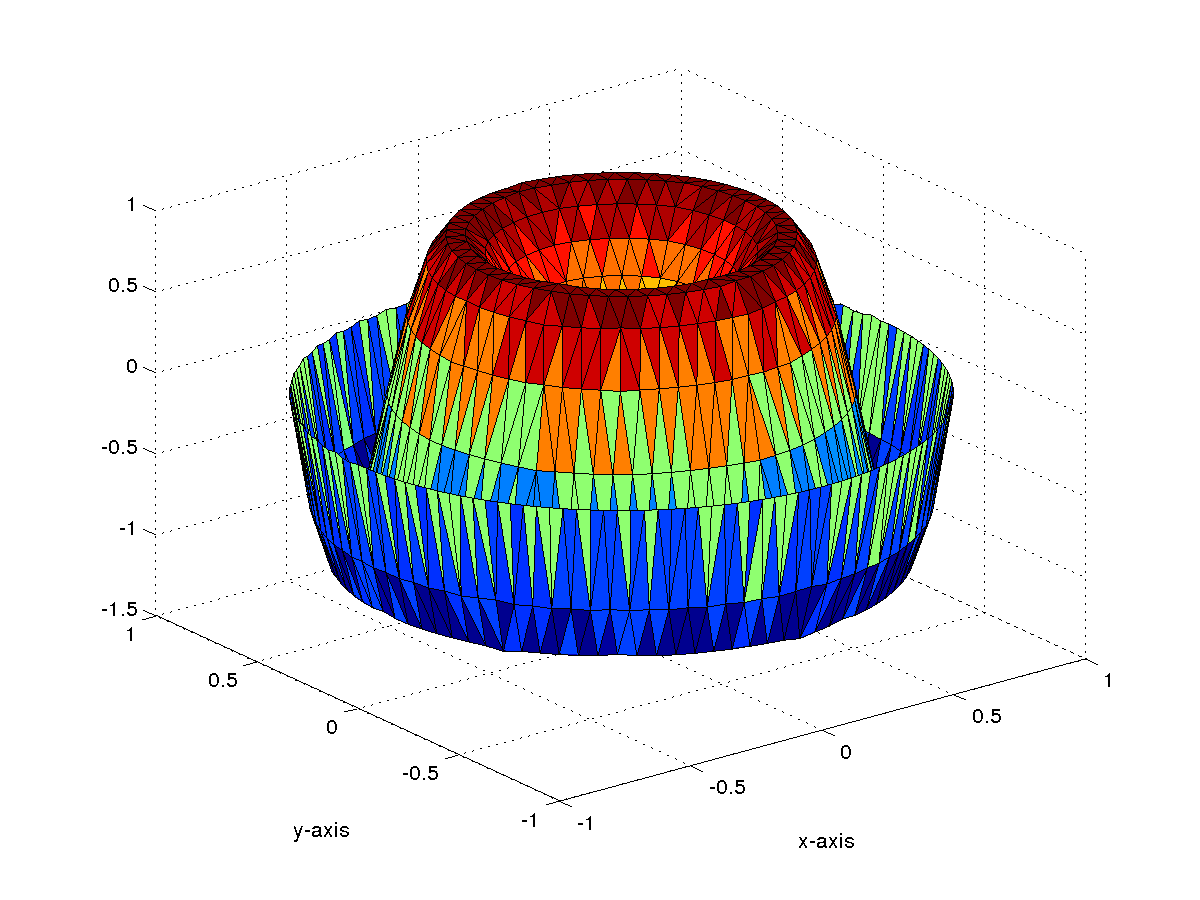
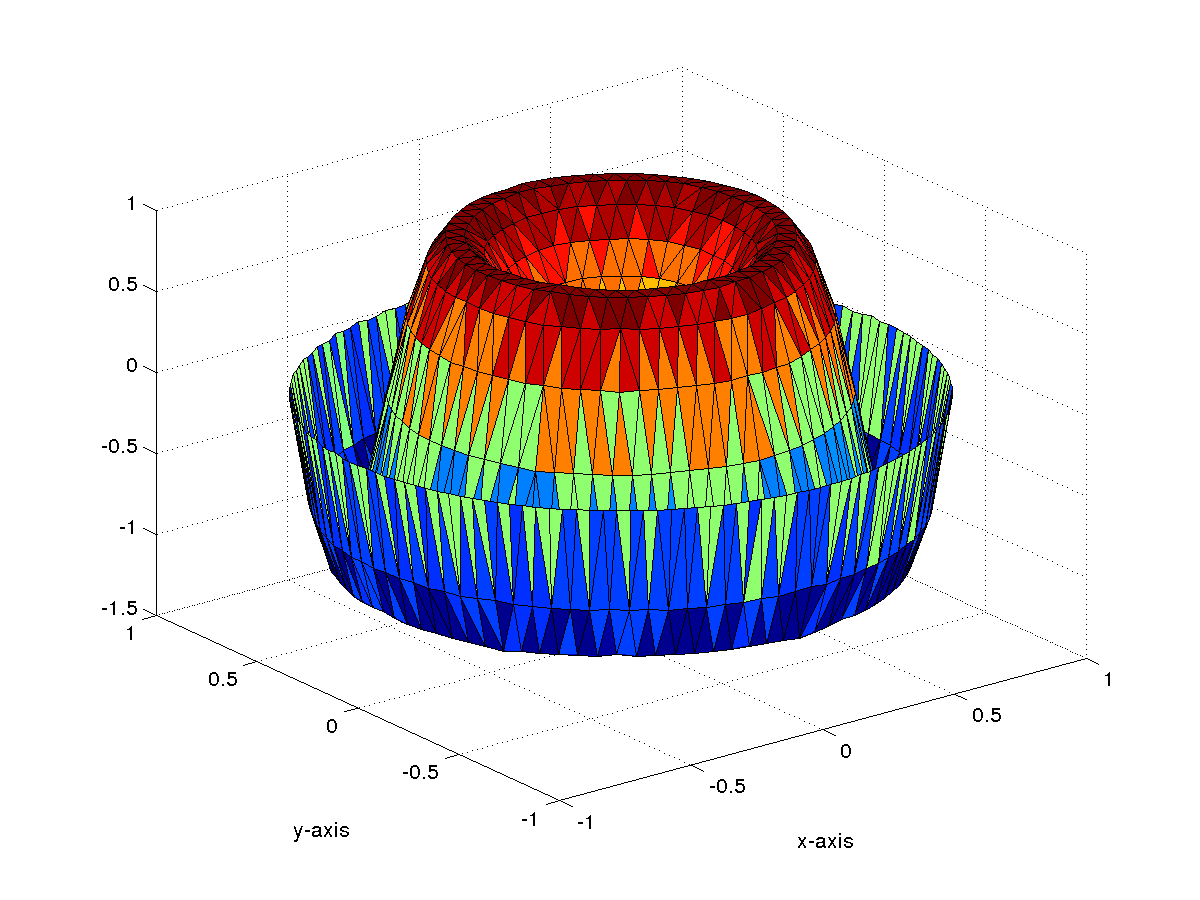
Nor jævla rot

diff --git a/oppgave3d.m b/oppgave3d.m
@@ -11,7 +11,7 @@ f = @(x) -8*pi*cos(2*pi*sum(x.^2))+16*pi^2*sum(x.^2)*sin(2*pi*sum(x.^2));
 g = @(x) 4*pi*sqrt(sum(x.^2))*cos(2*pi*sum(x.^2));
 
 %Generating grid:
-N = 1000;    %Number of nodes
+N = 5000;    %Number of nodes
 [p tri edge] = getDisk(N);
 
 %Assembly of stiffness matrix:
@@ -39,7 +39,7 @@ u = addingHomogenous2D(uh,dir);
 
 
 %----------------POSTPROCESSING:-----------------
-trisurf(tri,p(:,1),p(:,2),u)
+trimesh(tri,p(:,1),p(:,2),u)
 xlabel('x-axis');
 ylabel('y-axis');
 
